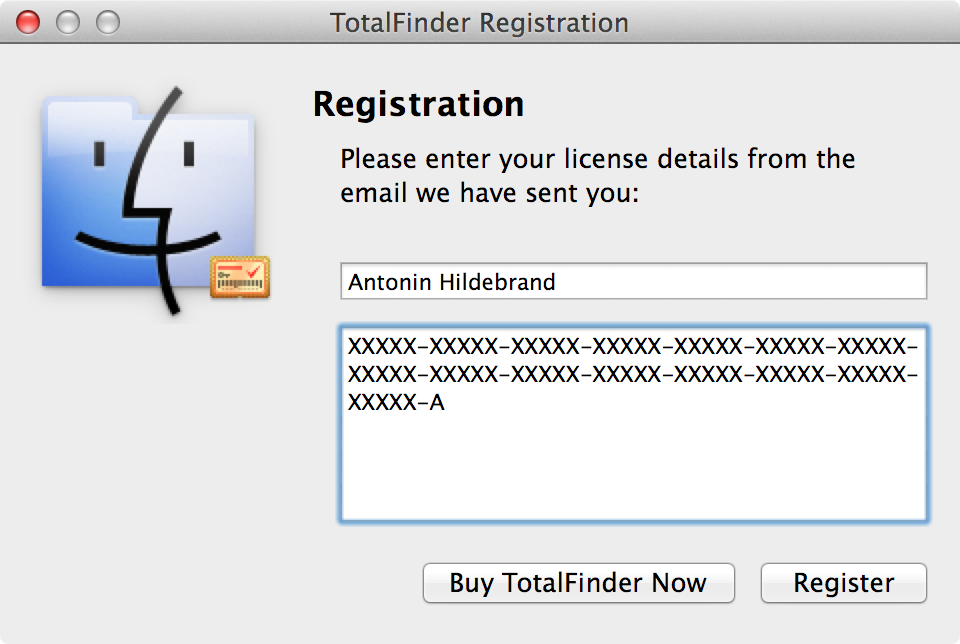
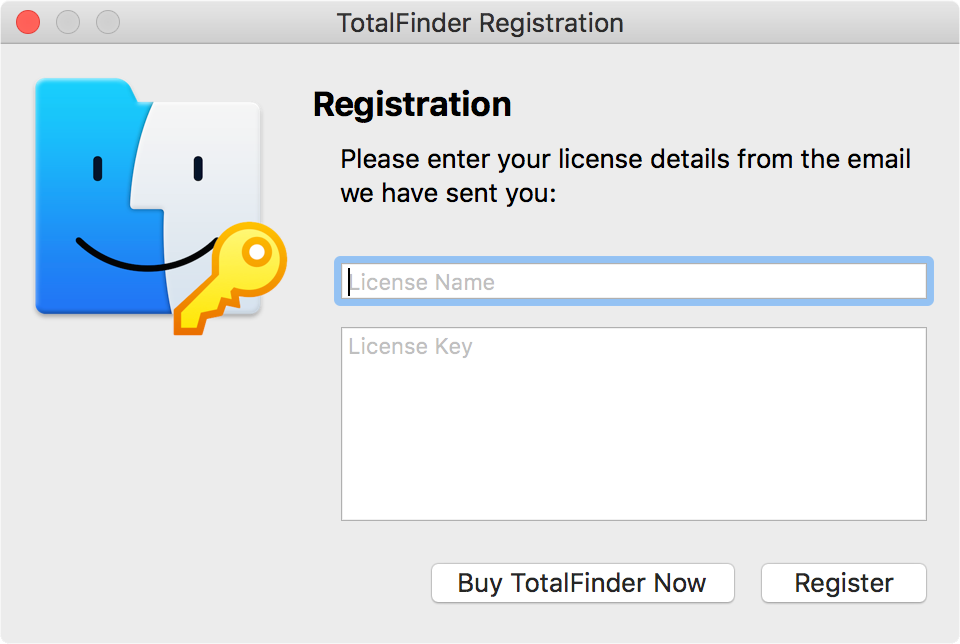
update the registration page

diff --git a/registration.md b/registration.md
@@ -6,15 +6,15 @@ subtitle: Registration
 
 ## Enter your license into the Registration Dialog
 
-You may click on the window badge:
+You may click on the red badge in the top-right corner of a TotalFinder window:
 
-<img src="/images/unregistered.png" class="doc-image" style="width: 200px">
+<img src="/images/unregistered.png" class="doc-image" style="width: 400px">
 
-Alternatively you can go through TotalFinder Preferences / About / Register button:
+Alternatively you can go through `TotalFinder Preferences` / `Registration` / `Register` button:
 
-<img src="/images/totalfinder-registration.png" class="doc-image no-shadow" style="width: 400px">
+<img src="/images/totalfinder-registration.png" class="doc-image" style="width: 600px">
 
-Our licensing dialog is case sensitive. Please make sure you copy and paste the license information from the email exactly and without surrounding quotes.
+Our licensing dialog is case-sensitive. Please make sure you copy and paste the license information exactly and without surrounding quotes.
 
 <img src="/images/licensing-dialog2.png" class="doc-image add-shadow" style="width: 400px">
 
